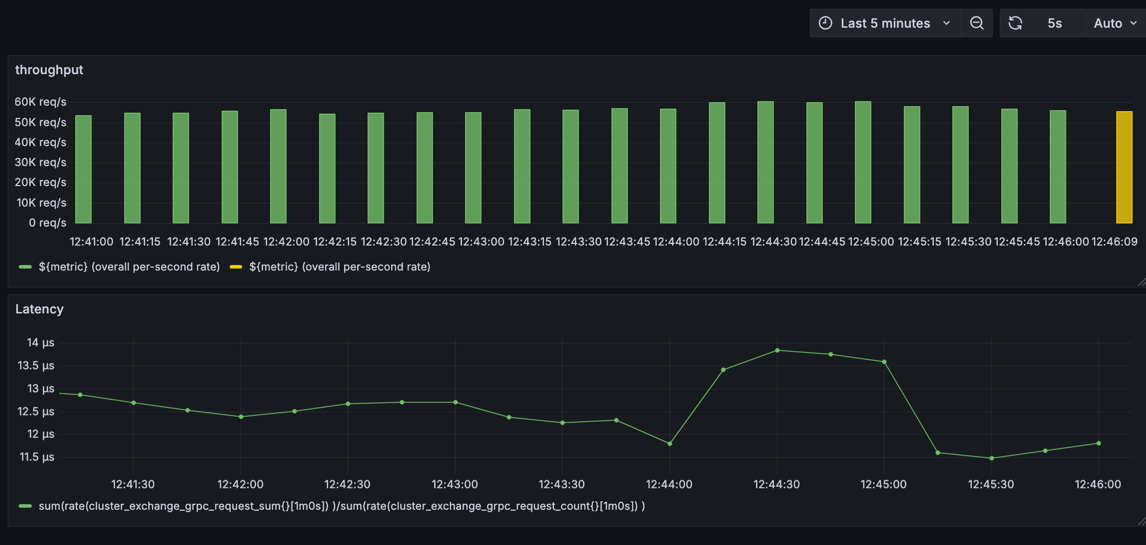
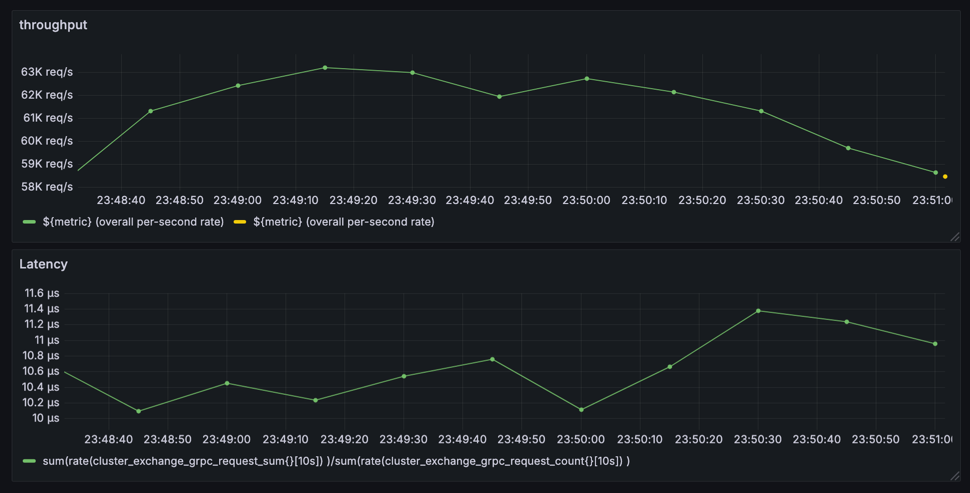
update: remove bottleneck at proto serdes

diff --git a/exchange-core/src/main/java/gc/garcol/exchangecore/AgentDomainMessageHandler.java b/exchange-core/src/main/java/gc/garcol/exchangecore/AgentDomainMessageHandler.java
@@ -1,11 +1,9 @@
 package gc.garcol.exchangecore;
 
-import com.google.protobuf.InvalidProtocolBufferException;
 import gc.garcol.exchange.proto.ClusterPayloadProto;
 import gc.garcol.exchange.proto.CommandProto;
 import gc.garcol.exchange.proto.CommonProto;
 import gc.garcol.exchange.proto.QueryProto;
-import gc.garcol.exchangecore.common.Env;
 import gc.garcol.exchangecore.domain.ClusterResponseMapper;
 import gc.garcol.libcore.UnsafeBuffer;
 import lombok.RequiredArgsConstructor;
@@ -14,7 +12,6 @@ import org.agrona.concurrent.Agent;
 import org.agrona.concurrent.IdleStrategy;
 import org.agrona.concurrent.SleepingMillisIdleStrategy;
 
-import java.nio.ByteBuffer;
 import java.util.UUID;
 import java.util.concurrent.atomic.AtomicBoolean;
 import java.util.concurrent.atomic.AtomicInteger;
@@ -33,7 +30,6 @@ public class AgentDomainMessageHandler implements Agent
     public static final AtomicBoolean IS_RUNNING = new AtomicBoolean(false);
     public static final AtomicInteger CONSUMER_INDEX = new AtomicInteger(0);
 
-    private final ByteBuffer cachedBuffer = ByteBuffer.allocate(Env.MAX_COMMAND_SIZE);
     private final ExchangeCluster exchangeCluster;
     private StateMachineDelegate stateMachine;
     private final IdleStrategy responseIdle = new SleepingMillisIdleStrategy(1);
@@ -62,25 +58,23 @@ public class AgentDomainMessageHandler implements Agent
 
     public boolean consume(final int msgTypeId, final UnsafeBuffer buffer, final int index, final int length)
     {
-        try
+        UUID sender = new UUID(
+            buffer.getLong(index),
+            buffer.getLong(index + Long.BYTES)
+        );
+        long requestId = buffer.getLong(index + Long.BYTES * 2);
+
+        ClusterPayloadProto.Request request = ExchangePayloadHolder.REQUESTS.remove(requestId);
+
+        if (request == null)
         {
-            UUID sender = new UUID(buffer.getLong(index), buffer.getLong(index + Long.BYTES));
-
-            cachedBuffer.clear();
-            buffer.getBytes(index + Long.BYTES * 2, cachedBuffer, 0, length - Long.BYTES * 2);
-            cachedBuffer.position(length - Long.BYTES * 2);
-            cachedBuffer.flip();
-            ClusterPayloadProto.Request request = ClusterPayloadProto.Request.parseFrom(cachedBuffer);
-
-            switch (request.getPayloadCase())
-            {
-                case COMMAND -> handleCommand(sender, request.getCorrelationId(), request.getCommand());
-                case QUERY -> handleQuery(sender, request.getCorrelationId(), request.getQuery());
-            }
+            return true;
         }
-        catch (InvalidProtocolBufferException e)
+
+        switch (request.getPayloadCase())
         {
-            log.error("Failed to parse command from log", e);
+            case COMMAND -> handleCommand(sender, request.getCorrelationId(), request.getCommand());
+            case QUERY -> handleQuery(sender, request.getCorrelationId(), request.getQuery());
         }
         return true;
     }
@@ -101,9 +95,11 @@ public class AgentDomainMessageHandler implements Agent
 
     private void enqueueResponse(UUID sender, ClusterPayloadProto.Response response)
     {
+        long responseId = ExchangePayloadHolder.RESPONSE_COUNTER.getAndIncrement();
+        ExchangePayloadHolder.RESPONSES.put(responseId, response);
         for (; ; )
         {
-            boolean success = exchangeCluster.enqueueResponse(sender, response);
+            boolean success = exchangeCluster.enqueueResponse(sender, responseId);
             if (success)
             {
                 break;

diff --git a/exchange-core/src/main/java/gc/garcol/exchangecore/AgentJournal.java b/exchange-core/src/main/java/gc/garcol/exchangecore/AgentJournal.java
@@ -1,5 +1,6 @@
 package gc.garcol.exchangecore;
 
+import gc.garcol.exchange.proto.ClusterPayloadProto;
 import gc.garcol.exchangecore.common.ClusterConstant;
 import gc.garcol.exchangecore.common.Env;
 import gc.garcol.libcore.OneToManyRingBuffer;
@@ -29,7 +30,6 @@ public class AgentJournal implements Agent
     final LogRepository logRepository;
     final OneToManyRingBuffer oneToManyRingBuffer;
     final ByteBuffer commandsBuilder = ByteBuffer.allocate(Env.BATCH_INSERT_SIZE * Env.MAX_COMMAND_SIZE);
-    final ByteBuffer cachedBuffer = ByteBuffer.allocate(Env.MAX_COMMAND_SIZE);
     int messageCount;
     int nextIndex;
 
@@ -61,12 +61,12 @@ public class AgentJournal implements Agent
             if (msgTypeId == ClusterConstant.COMMAND_MSG_TYPE)
             {
                 messageCount++;
-                int messageLength = length - Long.BYTES * 2; // length - correlationId.size
-                cachedBuffer.clear();
-                buffer.getBytes(index + Long.BYTES * 2, cachedBuffer, 0, messageLength);
-                commandsBuilder.putInt(nextIndex, messageLength);
-                commandsBuilder.put(nextIndex + Integer.BYTES, cachedBuffer, 0, messageLength);
-                nextIndex = nextIndex + Integer.BYTES + messageLength;
+                long requestId = buffer.getLong(index + Long.BYTES * 2);
+                ClusterPayloadProto.Request request = ExchangePayloadHolder.REQUESTS.get(requestId);
+                byte[] requestBytes = request.toByteArray();
+                commandsBuilder.putInt(nextIndex, requestBytes.length);
+                commandsBuilder.put(nextIndex + Integer.BYTES, requestBytes);
+                nextIndex = nextIndex + Integer.BYTES + requestBytes.length;
             }
         }
         catch (Exception e)

diff --git a/exchange-core/src/main/java/gc/garcol/exchangecore/ExchangeClusterStateLeader.java b/exchange-core/src/main/java/gc/garcol/exchangecore/ExchangeClusterStateLeader.java
@@ -17,6 +17,7 @@ import org.agrona.concurrent.ringbuffer.ManyToOneRingBuffer;
 
 import java.util.Objects;
 import java.util.UUID;
+import java.util.concurrent.atomic.AtomicLong;
 import java.util.concurrent.atomic.AtomicReference;
 
 /**
@@ -63,7 +64,7 @@ public class ExchangeClusterStateLeader implements ExchangeClusterState
         );
 
         this.journalerRunner = new AgentRunner(
-            new SleepingIdleStrategy(10_000),
+            new SleepingIdleStrategy(1_000),
             error -> log.error("Leader journaler error", error),
             null,
             journalerAgent
@@ -80,7 +81,6 @@ public class ExchangeClusterStateLeader implements ExchangeClusterState
     @Override
     public void start()
     {
-
         AgentRunner.startOnThread(requestTransformerRunner);
         AgentRunner.startOnThread(heartBeatRunner);
         AgentRunner.startOnThread(journalerRunner);
@@ -107,7 +107,14 @@ public class ExchangeClusterStateLeader implements ExchangeClusterState
         int messageType = request.getPayloadCase() == ClusterPayloadProto.Request.PayloadCase.COMMAND
             ? ClusterConstant.COMMAND_MSG_TYPE
             : ClusterConstant.QUERY_MSG_TYPE;
-        return exchangeCluster.requestRingBuffer.publishMessage(messageType, sender, request.toByteArray());
+        long requestId = ExchangePayloadHolder.REQUEST_COUNTER.getAndIncrement();
+        ExchangePayloadHolder.REQUESTS.put(requestId, request);
+        boolean success = exchangeCluster.requestRingBuffer.publishMessage(messageType, requestId, sender);
+        if (!success)
+        {
+            ExchangePayloadHolder.REQUESTS.remove(requestId);
+        }
+        return success;
     }
 
     @Override

diff --git a/exchange-core/src/main/java/gc/garcol/exchangecore/AgentClientReply.java b/exchange-core/src/main/java/gc/garcol/exchangecore/AgentClientReply.java
@@ -1,8 +1,6 @@
 package gc.garcol.exchangecore;
 
-import gc.garcol.exchange.proto.ClusterPayloadProto;
 import lombok.RequiredArgsConstructor;
-import lombok.SneakyThrows;
 import org.agrona.MutableDirectBuffer;
 import org.agrona.concurrent.Agent;
 
@@ -34,21 +32,21 @@ public class AgentClientReply implements Agent
     public boolean consume(final int msgTypeId, final MutableDirectBuffer buffer, final int index, final int length)
     {
         NetworkClusterService networkClusterService = ExchangeIOC.SINGLETON.getInstance(NetworkClusterService.class);
-        UUID sender = new UUID(buffer.getLong(index), buffer.getLong(index + Long.BYTES));
+        UUID sender = new UUID(
+            buffer.getLong(index),
+            buffer.getLong(index + Long.BYTES)
+        );
+
+        long responseId = buffer.getLong(index + Long.BYTES * 2);
         Optional.ofNullable(networkClusterService.repliers.get(sender))
             .ifPresent(responseStream -> {
-                var response = parse(buffer, index + Long.BYTES * 2, length - Long.BYTES * 2);
+                var response = ExchangePayloadHolder.RESPONSES.remove(responseId);
+                if (response == null)
+                {
+                    return;
+                }
                 responseStream.onNext(response);
             });
         return true;
-    }
-
-    @SneakyThrows
-    private ClusterPayloadProto.Response parse(final MutableDirectBuffer buffer, final int index, final int length)
-    {
-        cachedBuffer.clear();
-        buffer.getBytes(index, cachedBuffer, length);
-        cachedBuffer.flip();
-        return ClusterPayloadProto.Response.parseFrom(cachedBuffer);
     }
 }

diff --git a/exchange-core/src/main/java/gc/garcol/exchangecore/ExchangeClusterStateFollower.java b/exchange-core/src/main/java/gc/garcol/exchangecore/ExchangeClusterStateFollower.java
@@ -90,15 +90,24 @@ public class ExchangeClusterStateFollower implements ExchangeClusterState
     @Override
     public boolean enqueueRequest(UUID sender, ClusterPayloadProto.Request request)
     {
-        int messageType = request.getPayloadCase() == ClusterPayloadProto.Request.PayloadCase.COMMAND
-            ? ClusterConstant.COMMAND_MSG_TYPE
-            : ClusterConstant.QUERY_MSG_TYPE;
-        return exchangeCluster.requestRingBuffer
-            .publishMessage(messageType, sender, ClusterPayloadProto.CommonResponse
-                .newBuilder()
-                .setCode(StatusCode.BAD_REQUEST.code)
-                .setStatus(MessageCode.FOLLOWER_CANNOT_HANDLE_REQUEST.code)
-                .build().toByteArray());
+        var response = ClusterPayloadProto.CommonResponse
+            .newBuilder()
+            .setCode(StatusCode.BAD_REQUEST.code)
+            .setStatus(MessageCode.FOLLOWER_CANNOT_HANDLE_REQUEST.code)
+            .build();
+        long responseId = ExchangePayloadHolder.RESPONSE_COUNTER.getAndIncrement();
+        ExchangePayloadHolder.RESPONSES.put(
+            responseId,
+            ClusterPayloadProto.Response.newBuilder()
+                .setCommonResponse(response)
+                .build()
+        );
+        boolean success = exchangeCluster.enqueueResponse(sender, responseId);
+        if (!success)
+        {
+            ExchangePayloadHolder.RESPONSES.remove(responseId);
+        }
+        return false;
     }
 
     @Override

diff --git a/exchange-core/src/main/java/gc/garcol/exchangecore/ringbuffer/ManyToManyRingBuffer.java b/exchange-core/src/main/java/gc/garcol/exchangecore/ringbuffer/ManyToManyRingBuffer.java
@@ -29,16 +29,17 @@ public class ManyToManyRingBuffer
     private final OneToManyRingBuffer oneToManyRingBuffer;
     private final ByteBuffer cachedBuffer = ByteBuffer.allocate(1 << 10);
 
-    public boolean publishMessage(int messageType, UUID sender, byte[] message)
+    public boolean publishMessage(int messageType, long requestId, UUID sender)
     {
-        int claimIndex = inboundRingBuffer.tryClaim(messageType, message.length + Long.BYTES * 2);
+        int uuidSize = Long.BYTES * 2;
+        int claimIndex = inboundRingBuffer.tryClaim(messageType, uuidSize * 2);
         if (claimIndex <= 0)
         {
             return false;
         }
         inboundRingBuffer.buffer().putLong(claimIndex, sender.getMostSignificantBits());
         inboundRingBuffer.buffer().putLong(claimIndex + Long.BYTES, sender.getLeastSignificantBits());
-        inboundRingBuffer.buffer().putBytes(claimIndex + Long.BYTES * 2, message);
+        inboundRingBuffer.buffer().putLong(claimIndex + Long.BYTES * 2, requestId);
         inboundRingBuffer.commit(claimIndex);
         return true;
     }

diff --git a/exchange-core/src/main/java/gc/garcol/exchangecore/ExchangeCluster.java b/exchange-core/src/main/java/gc/garcol/exchangecore/ExchangeCluster.java
@@ -81,9 +81,10 @@ public class ExchangeCluster
         return this.state.enqueueRequest(sender, request);
     }
 
-    public boolean enqueueResponse(UUID sender, ClusterPayloadProto.Response response)
+    public boolean enqueueResponse(UUID sender, long responseId)
     {
-        int claimIndex = responseRingBuffer.tryClaim(1, response.getSerializedSize() + Long.BYTES * 2);
+        int uuidSize = Long.BYTES * 2;
+        int claimIndex = responseRingBuffer.tryClaim(1, uuidSize * 2);
         if (claimIndex <= 0)
         {
             return false;
@@ -92,7 +93,7 @@ public class ExchangeCluster
         final var buffer = responseRingBuffer.buffer();
         buffer.putLong(claimIndex, sender.getMostSignificantBits());
         buffer.putLong(claimIndex + Long.BYTES, sender.getLeastSignificantBits());
-        buffer.putBytes(claimIndex + Long.BYTES * 2, response.toByteArray());
+        buffer.putLong(claimIndex + Long.BYTES * 2, responseId);
         responseRingBuffer.commit(claimIndex);
         return true;
     }

diff --git a/exchange-core/src/main/java/gc/garcol/exchangecore/ExchangePayloadHolder.java b/exchange-core/src/main/java/gc/garcol/exchangecore/ExchangePayloadHolder.java
@@ -1,0 +1,23 @@
+package gc.garcol.exchangecore;
+
+import gc.garcol.exchange.proto.ClusterPayloadProto;
+import lombok.AccessLevel;
+import lombok.NoArgsConstructor;
+
+import java.util.Map;
+import java.util.concurrent.ConcurrentHashMap;
+import java.util.concurrent.atomic.AtomicLong;
+
+/**
+ * @author thaivc
+ * @since 2024
+ */
+@NoArgsConstructor(access = AccessLevel.PRIVATE)
+public class ExchangePayloadHolder
+{
+    public static final Map<Long, ClusterPayloadProto.Request> REQUESTS = new ConcurrentHashMap<>();
+    public static final Map<Long, ClusterPayloadProto.Response> RESPONSES = new ConcurrentHashMap<>();
+
+    public static final AtomicLong REQUEST_COUNTER = new AtomicLong(0);
+    public static final AtomicLong RESPONSE_COUNTER = new AtomicLong(0);
+}

diff --git a/exchange-core/src/main/java/gc/garcol/exchangecore/common/Env.java b/exchange-core/src/main/java/gc/garcol/exchangecore/common/Env.java
@@ -12,7 +12,6 @@ public class Env
 
     public static final int BATCH_INSERT_SIZE = Integer.parseInt(dotenv.get("BATCH_INSERT_SIZE"));
     public static final int MAX_COMMAND_SIZE = Integer.parseInt(dotenv.get("MAX_COMMAND_SIZE"));
-    public static final int RECORDS_PER_TERM = Integer.parseInt(dotenv.get("RECORDS_PER_TERM"));
 
     public static final String DATA_DIR = dotenv.get("DATA_DIR");
     public static final String LOG_DIR = dotenv.get("LOG_DIR");
